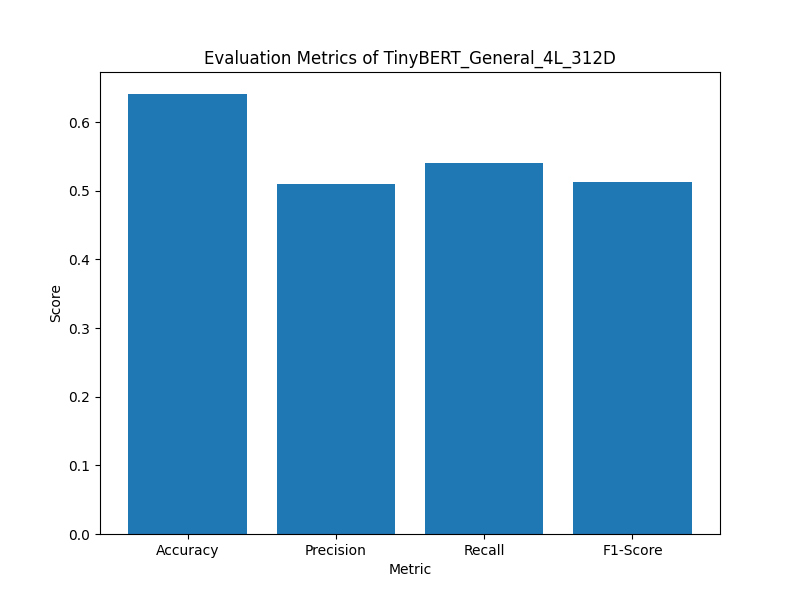
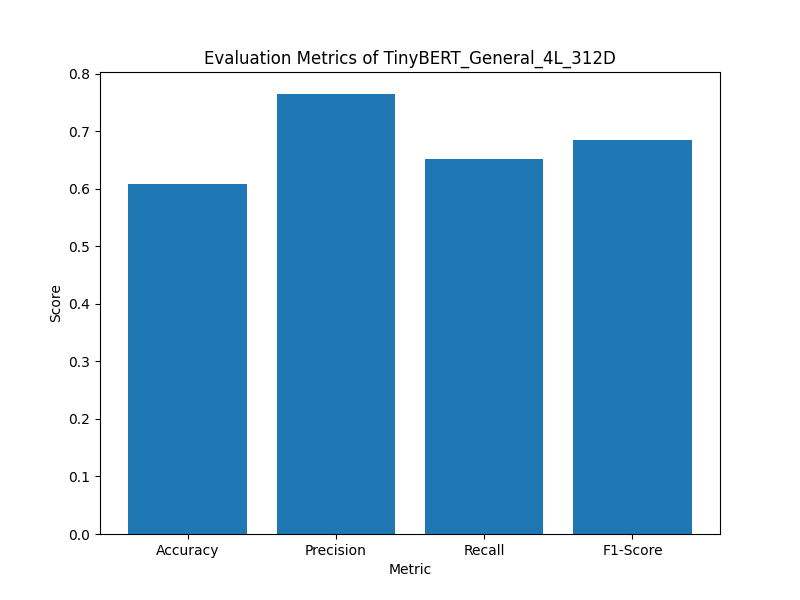
improved sentiment classifier results

diff --git a/results/sentiment_classification/TinyBERT_General_4L_312D_senitment_classification_report.tex b/results/sentiment_classification/TinyBERT_General_4L_312D_senitment_classification_report.tex
@@ -1,7 +1,7 @@
 \begin{tabular}{rrrrrrrr}
 \toprule
- eval\_loss &  eval\_f1 score &  eval\_accuracy &  eval\_precision &  eval\_recall &  eval\_runtime &  eval\_samples\_per\_second &  eval\_steps\_per\_second \\
+ eval\_loss &  eval\_precision &  eval\_recall &  eval\_f1 score &  eval\_balanced accuracy &  eval\_runtime &  eval\_samples\_per\_second &  eval\_steps\_per\_second \\
 \midrule
-  0.911291 &       0.512297 &       0.641117 &        0.509515 &     0.539956 &          1.45 &                 1556.559 &                195.173 \\
+  0.860885 &        0.764775 &     0.652636 &       0.684659 &                0.608677 &        1.6356 &                 1379.933 &                173.027 \\
 \bottomrule
 \end{tabular}
